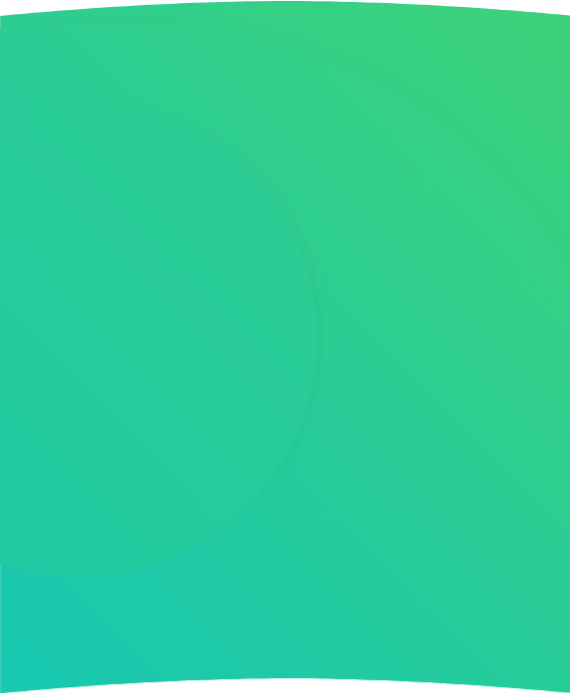
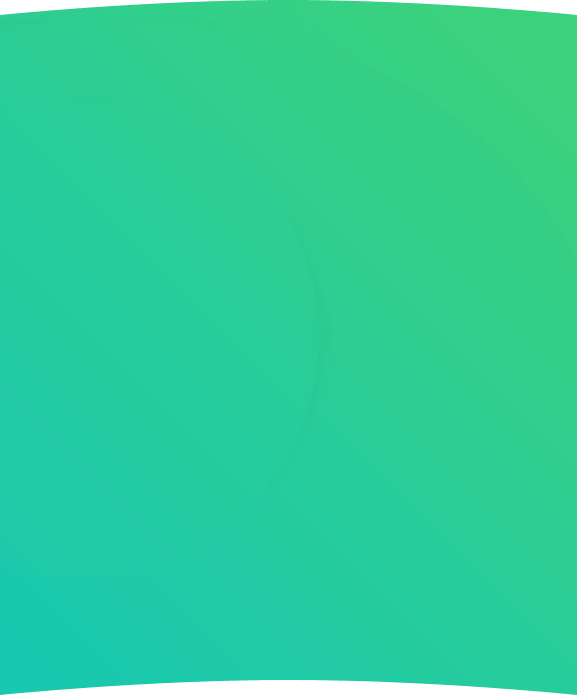
12

Changed region(s): [[0.0, 0.9697, 1.0, 1.0], [0.0, 0.0, 0.0298, 0.0303]]

diff --git a/projects/savl/index.html b/projects/savl/index.html
@@ -57,7 +57,7 @@
                         <li class="main-list__items" id="1">Плати</li>
                         <li class="main-list__items" id="2">Обменивай</li>
                     </ul>
-                    <button class="app-store-button">Скачать с <span class="app-store-button__big-text">App Store</span></button>
+                    <a class="app-store-button">Скачать с <span class="app-store-button__big-text">App Store</span></a>
                     <div class="main__down-button-mobile">
                         <img src="assets/img/icon-arrow-down.svg" alt="arrow down">
                     </div>
@@ -83,7 +83,7 @@
                             <li class="abilities-list__item">Зашифрованный мессенджер <br> по технологии <b>end-to-end</b></li>
                             <li class="abilities-list__item">Обмен криптовалюты на реальную валюту</li>
                         </ul>
-                        <button href="" class="app-store-button">Скачать с <span class="app-store-button__big-text">App Store</span></button>
+                        <a href="" class="app-store-button">Скачать с <span class="app-store-button__big-text">App Store</span></a>
                     </div>
                 </div>
             </div>
@@ -119,17 +119,17 @@
             <div class="footer__info-section">
                 <img class="footer__logo" src="assets/img/logo-white.png" alt="savl logo">
                 <p class="footer-ifo-section__paragraph">SAVL GmbH, c/o Schwärzler Rechtsanwälte, Baarerstr. 75, 6300 <br> Zug, Kanton Zug, Schweiz Registerangaben: Kanton Zug <br> Unternehmensnummer: CHE-365.396.532</p>
-                <button href="" class="app-store-button"><span class="app-store-gradient"></span><div class="button-text">Скачать с <span class="app-store-button__big-text">App Store</span></div></button>
+                <a href="" class="app-store-button"><span class="app-store-gradient"></span><div class="button-text">Скачать с <span class="app-store-button__big-text">App Store</span></div></a>
             </div>
             <ul class="footer__links-list">
                 <li class="footer-links-list__item"><a href="" target="_blank">Privacy policy</a></li>
                 <li class="footer-links-list__item"><a href="" target="_blank">Terms of use</a></li>
             </ul>
             <div class="footer__social-section">
-                <a class="footer-social-section__item" href="" target="_blank"><span class="footer__socials-bg"></span><img src="assets/img/icon-vk.png" alt="vk icon"></a>
-                <a class="footer-social-section__item" href="" target="_blank"><span class="footer__socials-bg"></span><img src="assets/img/icon-facebook.png" alt="facebook icon"></a>
-                <a class="footer-social-section__item" href="" target="_blank"><span class="footer__socials-bg"></span><img src="assets/img/icon-instagram.png" alt="instagram icon"></a>
-                <a class="footer-social-section__item" href="" target="_blank"><span class="footer__socials-bg"></span><img src="assets/img/icon-telegram.png" alt="instagram icon"></a>
+                <a class="footer-social-section__item" href="" target="_blank"><span class="footer__socials-bg"></span><img src="assets/img/icon-vk.svg" alt="vk icon"></a>
+                <a class="footer-social-section__item" href="" target="_blank"><span class="footer__socials-bg"></span><img src="assets/img/icon-facebook.svg" alt="facebook icon"></a>
+                <a class="footer-social-section__item" href="" target="_blank"><span class="footer__socials-bg"></span><img src="assets/img/icon-instagram.svg" alt="instagram icon"></a>
+                <a class="footer-social-section__item" href="" target="_blank"><span class="footer__socials-bg"></span><img src="assets/img/icon-telegram.svg" alt="instagram icon"></a>
             </div>
         </div>
     </footer>

diff --git a/projects/savl/assets/css/style.css b/projects/savl/assets/css/style.css
@@ -45,6 +45,8 @@ img {
 }
 
 .app-store-button {
+    display: block;
+    width: 138px;
     position: relative;
     border: 0;
     text-align: left;
@@ -524,10 +526,16 @@ nav-list-item:last-child {
     top: 0;
     width: 200%;
     height: 100%;
-    background: linear-gradient(45deg, #13c6b9 0%, #42d473 15%, #4fadfb 100%);
+    /* Permalink - use to edit and share this gradient: https://colorzilla.com/gradient-editor/#13c6b9+0,42d473+50,13c6b9+75 */
+    background: #13c6b9; /* Old browsers */
+    background: -moz-linear-gradient(left,  #13c6b9 0%, #42d473 50%, #13c6b9 75%); /* FF3.6-15 */
+    background: -webkit-linear-gradient(left,  #13c6b9 0%,#42d473 50%,#13c6b9 75%); /* Chrome10-25,Safari5.1-6 */
+    background: linear-gradient(to right,  #13c6b9 0%,#42d473 50%,#13c6b9 75%); /* W3C, IE10+, FF16+, Chrome26+, Opera12+, Safari7+ */
+    filter: progid:DXImageTransform.Microsoft.gradient( startColorstr='#13c6b9', endColorstr='#13c6b9',GradientType=1 ); /* IE6-9 */
     transition: .3s;
     z-index: 0;
 }
+
 
 .button-text {
     display: flex;
@@ -580,15 +588,23 @@ nav-list-item:last-child {
 }
 
 .footer__socials-bg {
-    display: none;
     position: absolute;
     left: 0;
     top: 0;
     height: 40px;
-    width: 200%;
+    width: 300%;
     transition: .3s;
-    background-color: #fff;
+    /* Permalink - use to edit and share this gradient: https://colorzilla.com/gradient-editor/#ffffff+0,ffffff+36,42d473+75,13c6b9+99 */
+    background: #ffffff; /* Old browsers */
+    background: -moz-linear-gradient(left,  #ffffff 0%, #ffffff 36%, #42d473 75%, #13c6b9 99%); /* FF3.6-15 */
+    background: -webkit-linear-gradient(left,  #ffffff 0%,#ffffff 36%,#42d473 75%,#13c6b9 99%); /* Chrome10-25,Safari5.1-6 */
+    background: linear-gradient(to right,  #ffffff 0%,#ffffff 36%,#42d473 75%,#13c6b9 99%); /* W3C, IE10+, FF16+, Chrome26+, Opera12+, Safari7+ */
+    filter: progid:DXImageTransform.Microsoft.gradient( startColorstr='#ffffff', endColorstr='#13c6b9',GradientType=1 ); /* IE6-9 */
     z-index: 0;
+}
+
+.footer-social-section__item:hover .footer__socials-bg {
+    left: -200%;
 }
 
 .footer-social-section__item:last-child {
@@ -737,6 +753,11 @@ nav-list-item:last-child {
 }
 
 @media screen and (max-width: 767.98px) {
+    .app-store-button {
+        width: 120px;
+        padding-bottom: 10px;
+    }
+
     .header .container {
         position: relative;
     }
@@ -877,6 +898,10 @@ nav-list-item:last-child {
 
     .app-store-button__big-text {
         font-size: 14px;
+    }
+
+    .footer .app-store-button__big-text {
+        margin-left: 10px;
     }
 
     .video__play, .video__play-hover {
